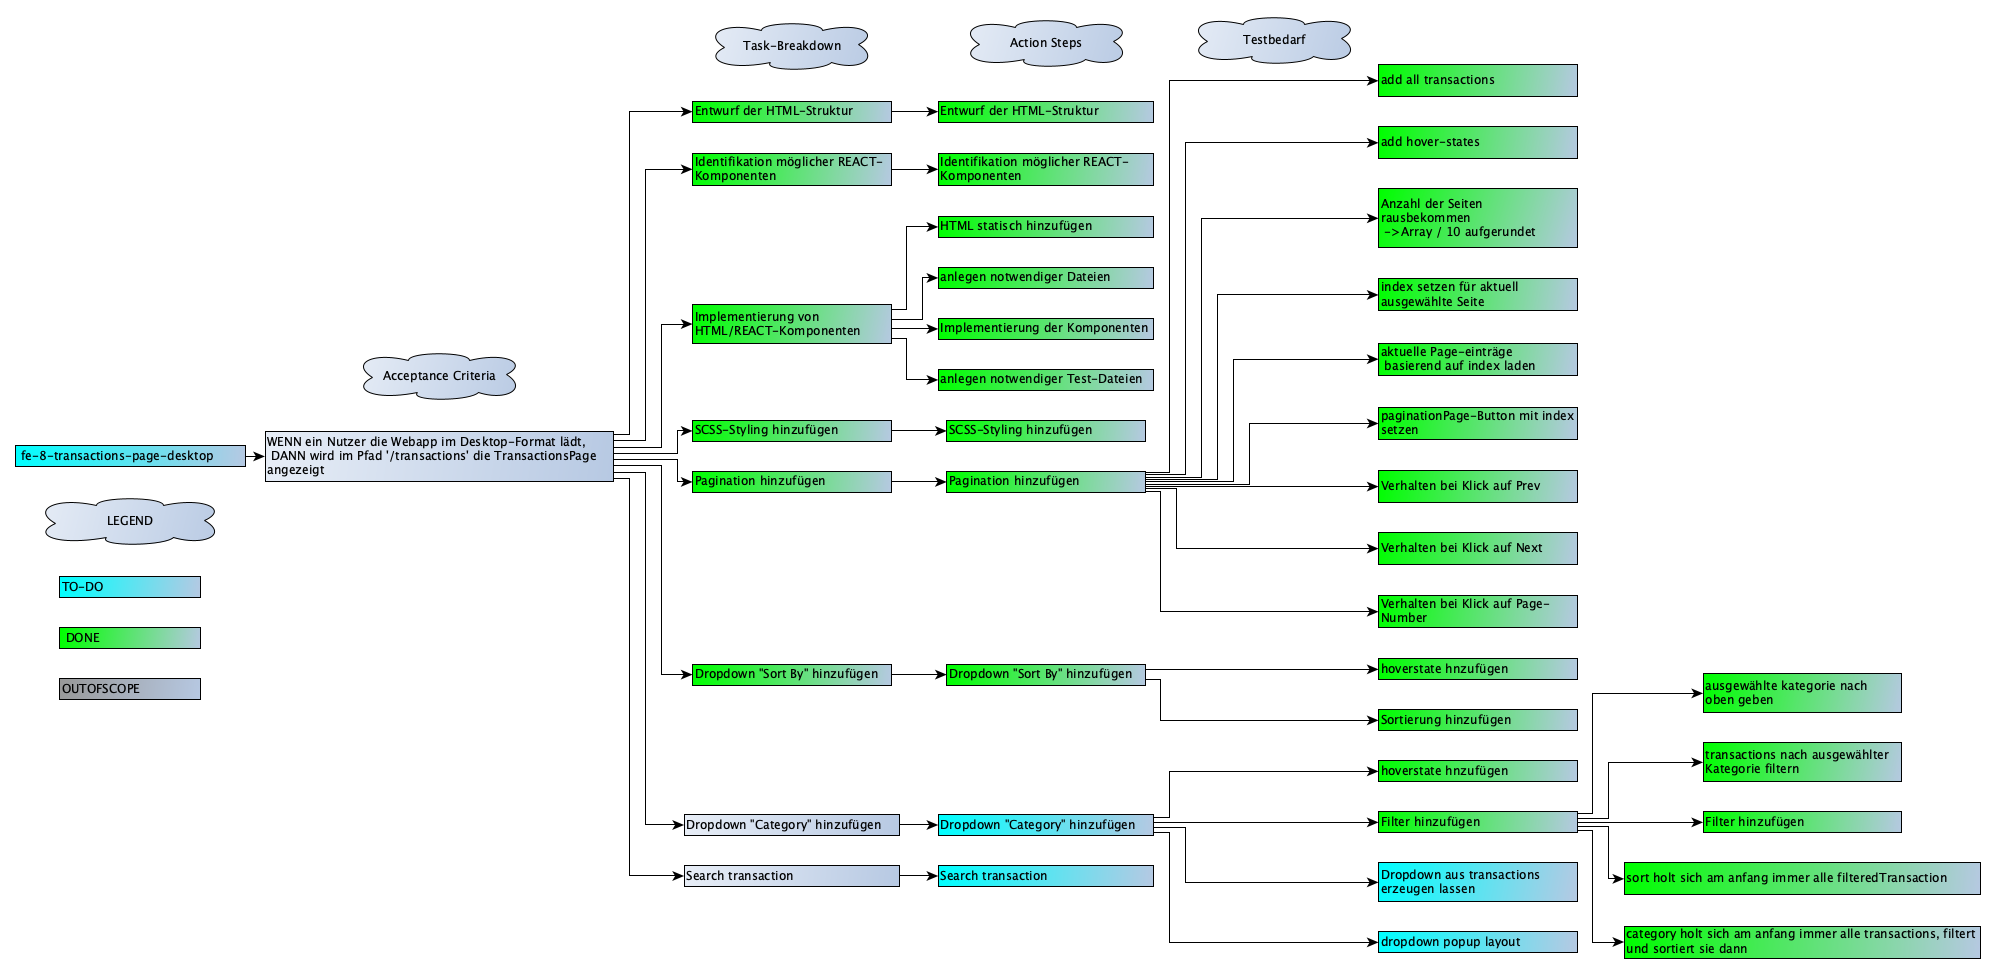
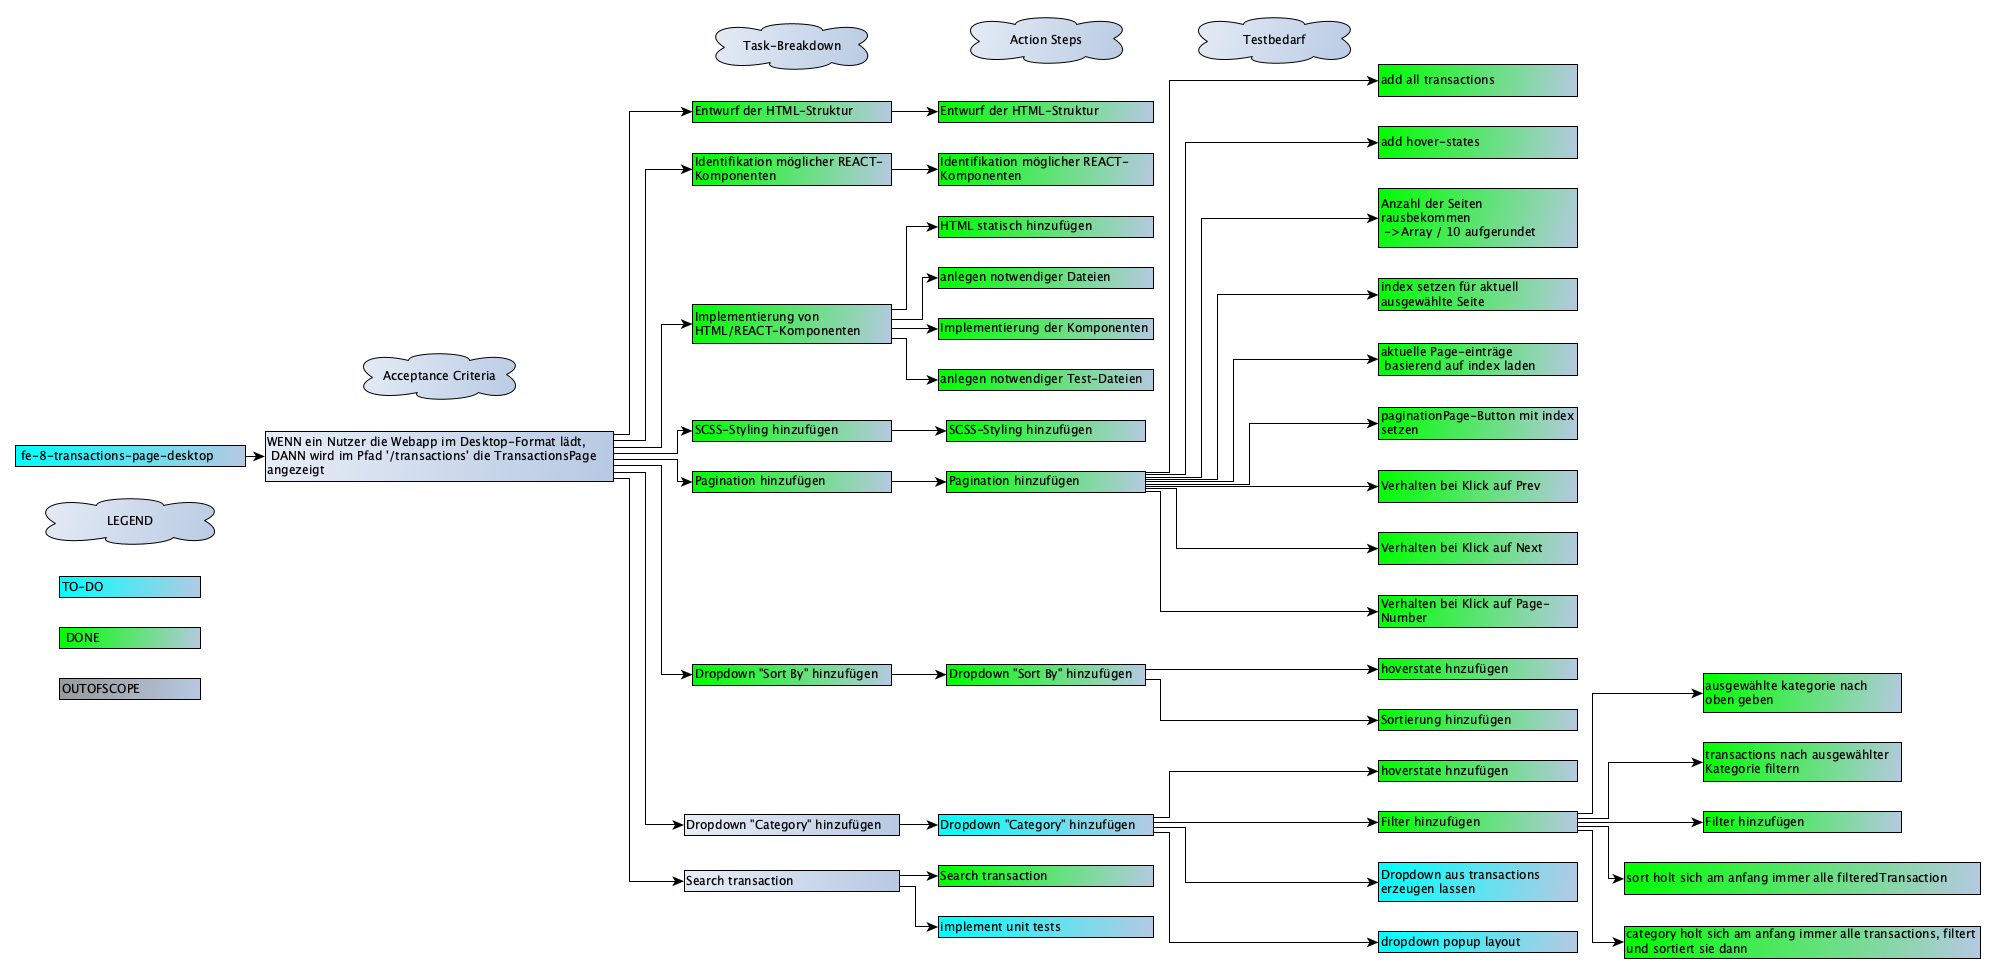
fe-8 add searchbar logic

Changed region(s): [[0.3106, 0.8615, 0.5902, 0.9846], [0.497, 0.0, 0.5591, 0.0923]]

diff --git a/frontend/src/Pages/TransactionsPage.tsx b/frontend/src/Pages/TransactionsPage.tsx
@@ -7,14 +7,14 @@ import { SearchbarDropdownSort } from '../components/transactions/searchbar/Sear
 import { SearchbarDropdownCategory } from '../components/transactions/searchbar/SearchbarDropdownCategory';
 import { TableHeader } from '../components/transactions/table/TableHeader';
 import { TableRow } from '../components/transactions/table/TableRow';
-// import { TransactionsPageEntries } from '../constants/TransactionsPageEntries';
-// import { TransactionsPageTableRowProps } from '../types/TransactionsPageTableRowProps';
 import { EPTransaction } from '../types/EPTransaction';
 import { getTransactions } from '../globals/services/TransactionService';
 import { splitIntoChunks } from '../globals/utils/SplitIntoChunks';
-import { useState } from 'react';
-// import { meta } from 'eslint-plugin-react/lib/rules/jsx-props-no-spread-multi';
-// import category = meta.docs.category;
+import { useRef, useState } from 'react';
+
+type SearchbarInputHandle = {
+  clearInput: () => void;
+};
 
 export function TransactionsPage() {
   const [pageIndex, setPageIndex] = useState(0);
@@ -22,11 +22,12 @@ export function TransactionsPage() {
   const pageEntrySize: number = 10;
   const [filteredTransactions, setFilteredTransactions] = useState(transactions);
   const [currentSortOption, setCurrentSortOption] = useState<string>('latest');
+  const [currentCategory, setCurrentCategory] = useState<string>('all');
   let shadowFilteredTransactions: EPTransaction[] = [...filteredTransactions];
+  const searchbarRef = useRef<SearchbarInputHandle>();
 
   const handleSortChange = (sortOption: string) => {
     let sorted = [...shadowFilteredTransactions];
-    // console.log('filteredTransactionsInMethodCategory', filteredTransactions);
 
     setCurrentSortOption(sortOption);
 
@@ -53,26 +54,41 @@ export function TransactionsPage() {
         sorted.sort((a, b) => new Date(b.date).getTime() - new Date(a.date).getTime());
         break;
     }
-    // console.log('sorted', sorted);
-    // console.log('currentSortOptionSort', currentSortOption);
+
     setFilteredTransactions(sorted);
 
     setPageIndex(0);
   };
 
-  const handleCategoryChange = (category: string) => {
-    const filtered = transactions.filter((transaction) => {
+  const handleCategoryChange = (
+    category: string,
+    usedTransactions: EPTransaction[] = transactions
+  ) => {
+    if (usedTransactions.length === transactions.length && searchbarRef.current) {
+      searchbarRef.current.clearInput();
+    }
+
+    const filtered = usedTransactions.filter((transaction) => {
       return transaction.categoryKey === category || category === 'all';
     });
 
-    // console.log('filtered', filtered);
-    // setFilteredTransactions(filtered);
+    setCurrentCategory(category);
+
     shadowFilteredTransactions = [...filtered];
-    // console.log('shadowFilteredTransactionsInMethodCategory', shadowFilteredTransactions);
-    // console.log('filteredTransactionsInMethodCategory', filteredTransactions);
-    // console.log('currentSortOptionCategory', currentSortOption);
 
     handleSortChange(currentSortOption);
+  };
+
+  const handleInputChange = (currentInput: string) => {
+    const filteredByInput = transactions.filter((transaction) => {
+      const transactionSmall = transaction.name.toLowerCase();
+      const inputSmall = currentInput.toLowerCase();
+      return transactionSmall.includes(inputSmall);
+    });
+
+    shadowFilteredTransactions = [...filteredByInput];
+
+    handleCategoryChange(currentCategory, filteredByInput);
   };
 
   const transactionsPaged: EPTransaction[][] = splitIntoChunks(filteredTransactions, pageEntrySize);
@@ -108,7 +124,7 @@ export function TransactionsPage() {
         <h1>Transactions</h1>
         <div className="transactionsDetails">
           <div className="transactionsSearchbar">
-            <SearchbarInput />
+            <SearchbarInput ref={searchbarRef} onInputChange={handleInputChange} />
             <label className="searchbarLabel sortBy">Sort by</label>
             <SearchbarDropdownSort onSortChange={handleSortChange} />
             <label className="searchbarLabel category">Category</label>

diff --git a/frontend/src/components/transactions/searchbar/SearchbarInput.spec.tsx b/frontend/src/components/transactions/searchbar/SearchbarInput.spec.tsx
@@ -1,4 +1,4 @@
-import { render, screen } from '@testing-library/react';
+import { fireEvent, render, screen } from '@testing-library/react';
 import React from 'react';
 import { SearchbarInput } from './SearchbarInput';
 
@@ -6,8 +6,14 @@ const imgAlt: string = 'icon of search';
 const imgSrc: string = './src/assets/images/icon-search.svg';
 
 describe('SearchbarInput', () => {
+  let mockOnInputChange: jest.Mock<() => void>;
+
+  beforeEach(() => {
+    mockOnInputChange = jest.fn();
+  });
+
   it('renders div searchbarInputContainer', () => {
-    const { container } = render(<SearchbarInput />);
+    const { container } = render(<SearchbarInput onInputChange={mockOnInputChange} />);
 
     const htmlElement = container.querySelector('.searchbarInputContainer');
 
@@ -15,7 +21,7 @@ describe('SearchbarInput', () => {
   });
 
   it('renders relative div searchbarInputRelative', () => {
-    const { container } = render(<SearchbarInput />);
+    const { container } = render(<SearchbarInput onInputChange={mockOnInputChange} />);
 
     const htmlElement = container.querySelector('.searchbarInputRelative');
 
@@ -23,10 +29,19 @@ describe('SearchbarInput', () => {
   });
 
   it('renders search icon of SearchbarInput', () => {
-    render(<SearchbarInput />);
+    render(<SearchbarInput onInputChange={mockOnInputChange} />);
 
     const imgElement: HTMLElement = screen.getByAltText(imgAlt);
 
     expect(imgElement).toHaveAttribute('src', imgSrc);
+  });
+
+  it('passes current input to parent component', () => {
+    render(<SearchbarInput onInputChange={mockOnInputChange} />);
+
+    const selectElement = screen.getByTestId('searchbar-input').querySelector('input');
+    fireEvent.change(selectElement!, { target: { value: 'a' } });
+
+    expect(mockOnInputChange).toHaveBeenCalledWith('a');
   });
 });

diff --git a/frontend/src/components/transactions/searchbar/SearchbarInput.tsx b/frontend/src/components/transactions/searchbar/SearchbarInput.tsx
@@ -1,11 +1,32 @@
 import './SearchbarInput.scss';
+import React, { forwardRef, useImperativeHandle, useState } from 'react';
+import { SearchbarInputProps } from '../../../types/SearchbarInputProps';
 
-export function SearchbarInput() {
+export const SearchbarInput = forwardRef(({ onInputChange }: SearchbarInputProps, ref) => {
+  const [currentInput, setCurrentInput] = useState<string>('');
+
+  const handleInputChange = (event: React.ChangeEvent<HTMLInputElement>) => {
+    const newInput = event.target.value;
+    setCurrentInput(newInput);
+    onInputChange(newInput);
+  };
+
+  useImperativeHandle(ref, () => ({
+    clearInput() {
+      setCurrentInput('');
+    },
+  }));
+
   return (
     <>
       <div className="searchbarInputContainer" data-testid="searchbar-input">
         <div className="searchbarInputRelative">
-          <input className="searchbarInput" placeholder="Search transaction" />
+          <input
+            className="searchbarInput"
+            placeholder="Search transaction"
+            value={currentInput}
+            onChange={handleInputChange}
+          />
           <img
             className="searchbarInputLense"
             alt="icon of search"
@@ -16,4 +37,6 @@ export function SearchbarInput() {
       </div>
     </>
   );
-}
+});
+
+SearchbarInput.displayName = 'SearchbarInput';

diff --git a/frontend/src/Types/SearchbarInputProps.ts b/frontend/src/Types/SearchbarInputProps.ts
@@ -1,0 +1,3 @@
+export interface SearchbarInputProps {
+  onInputChange: (currentInput: string) => void;
+}
